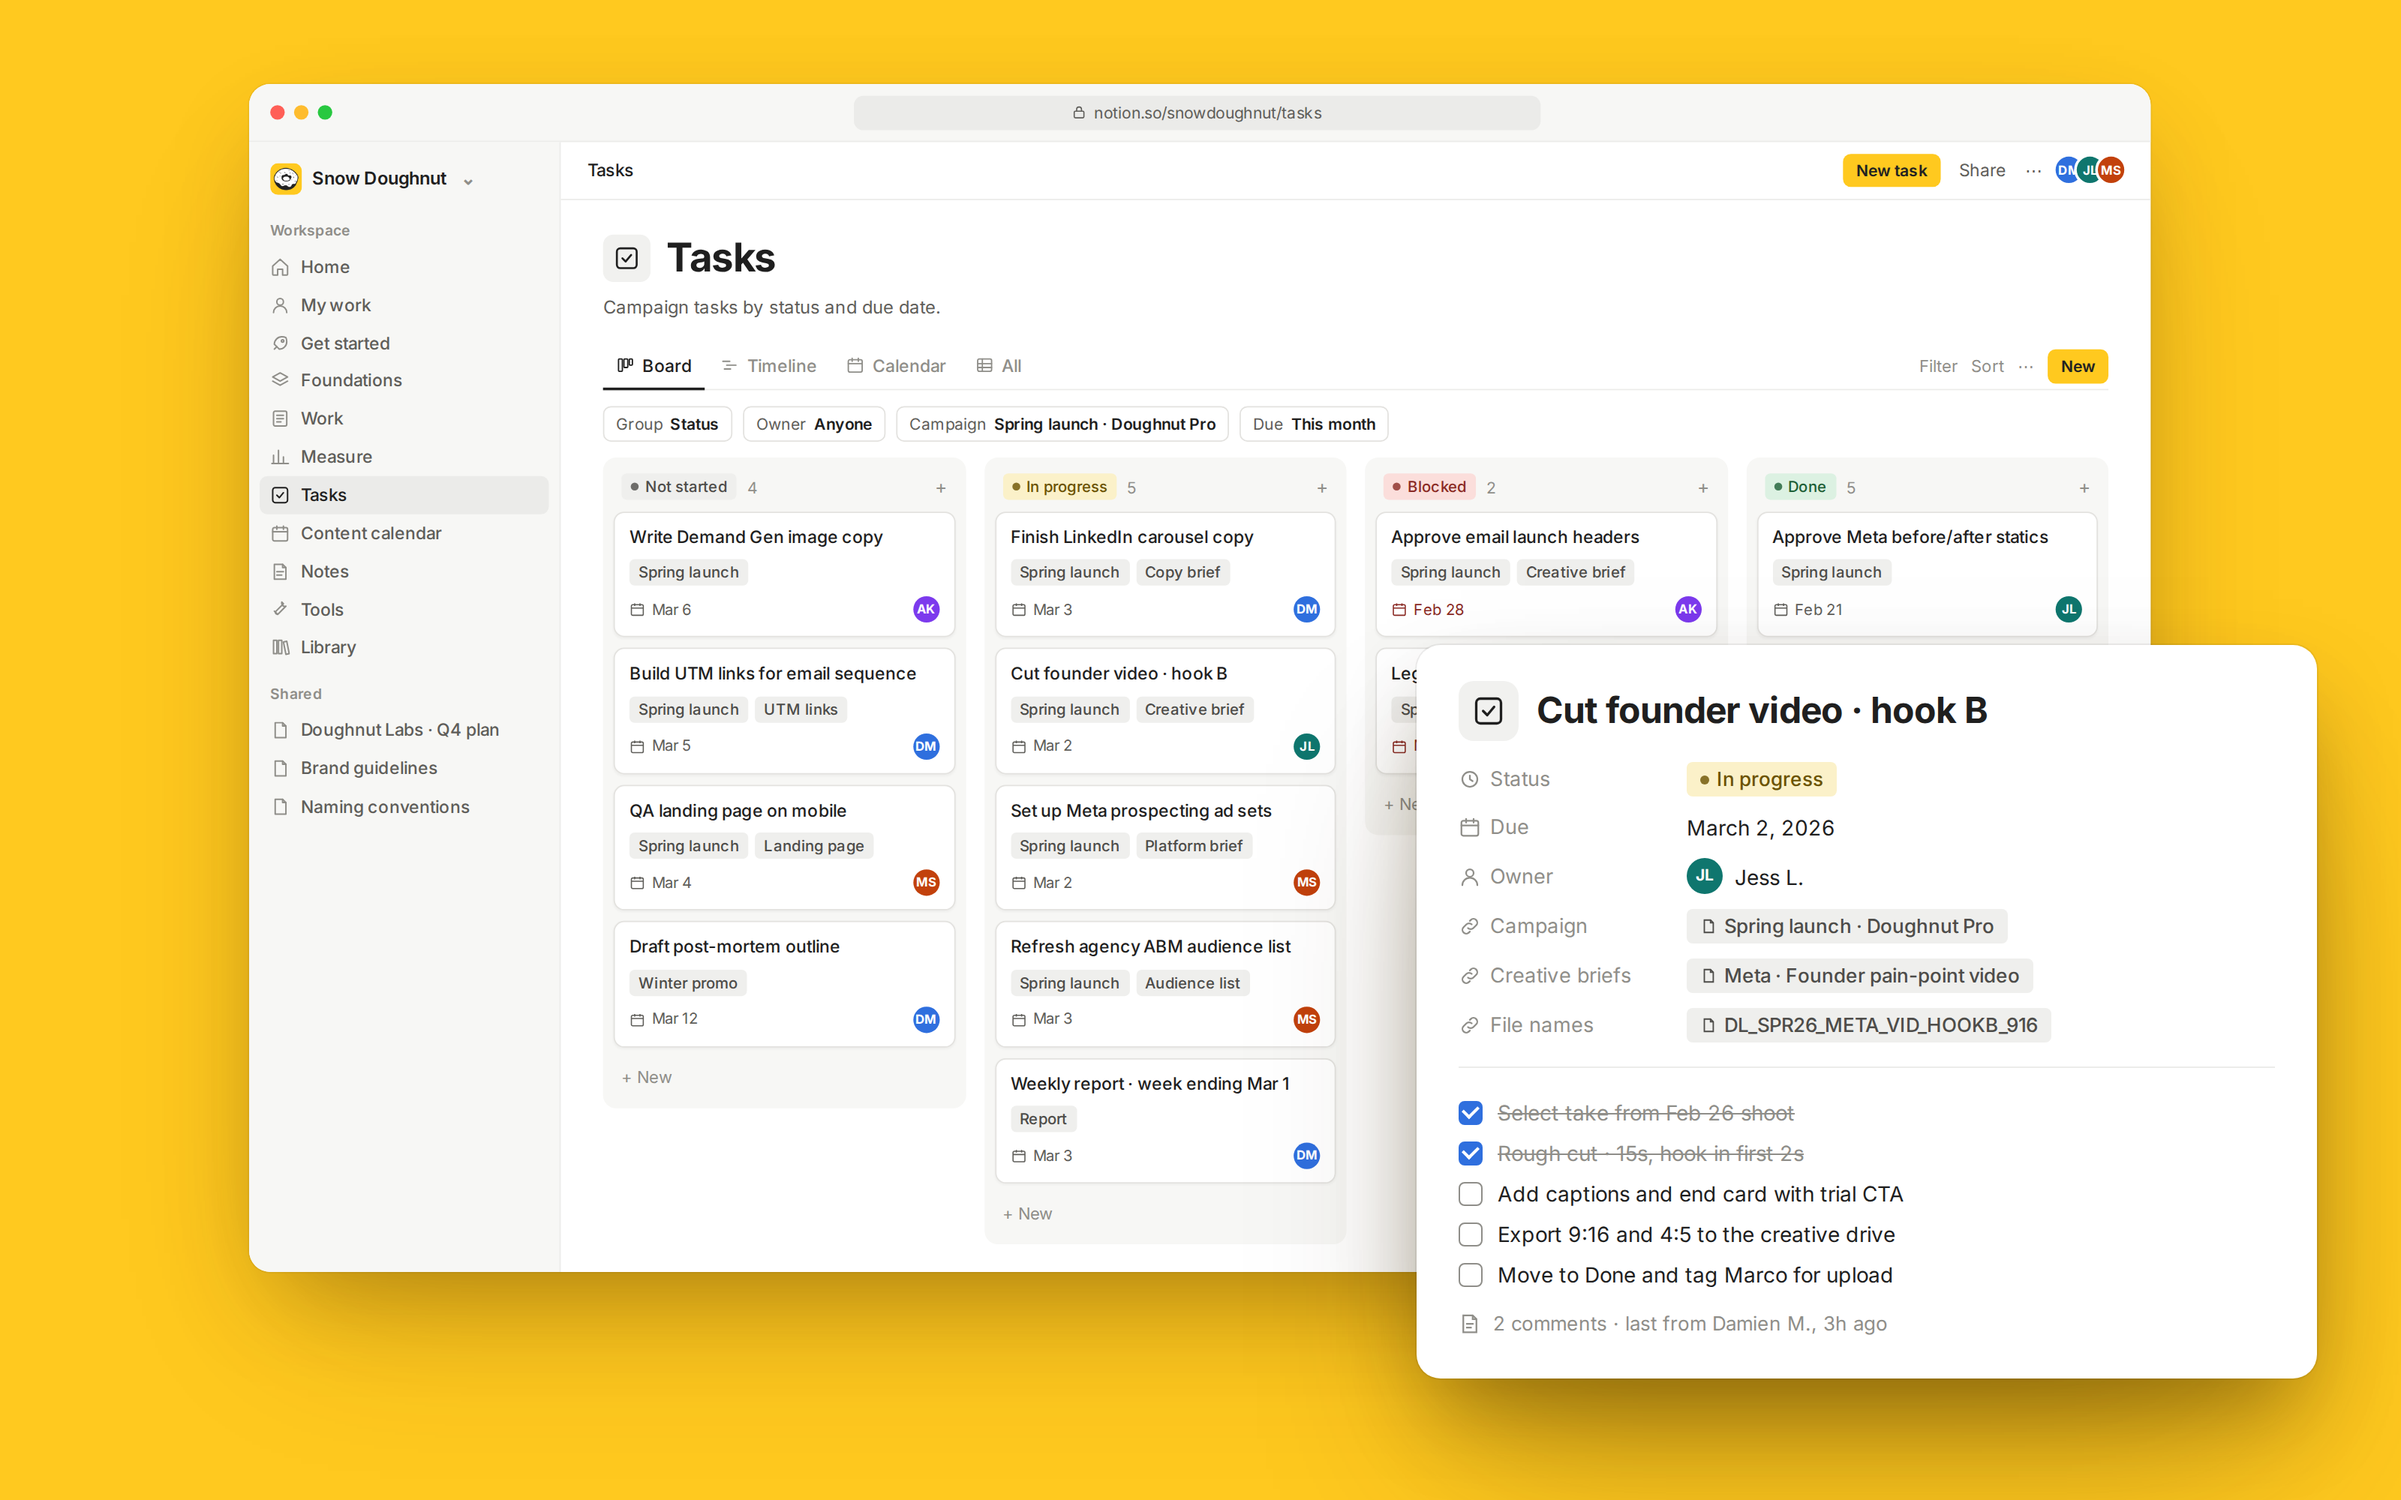
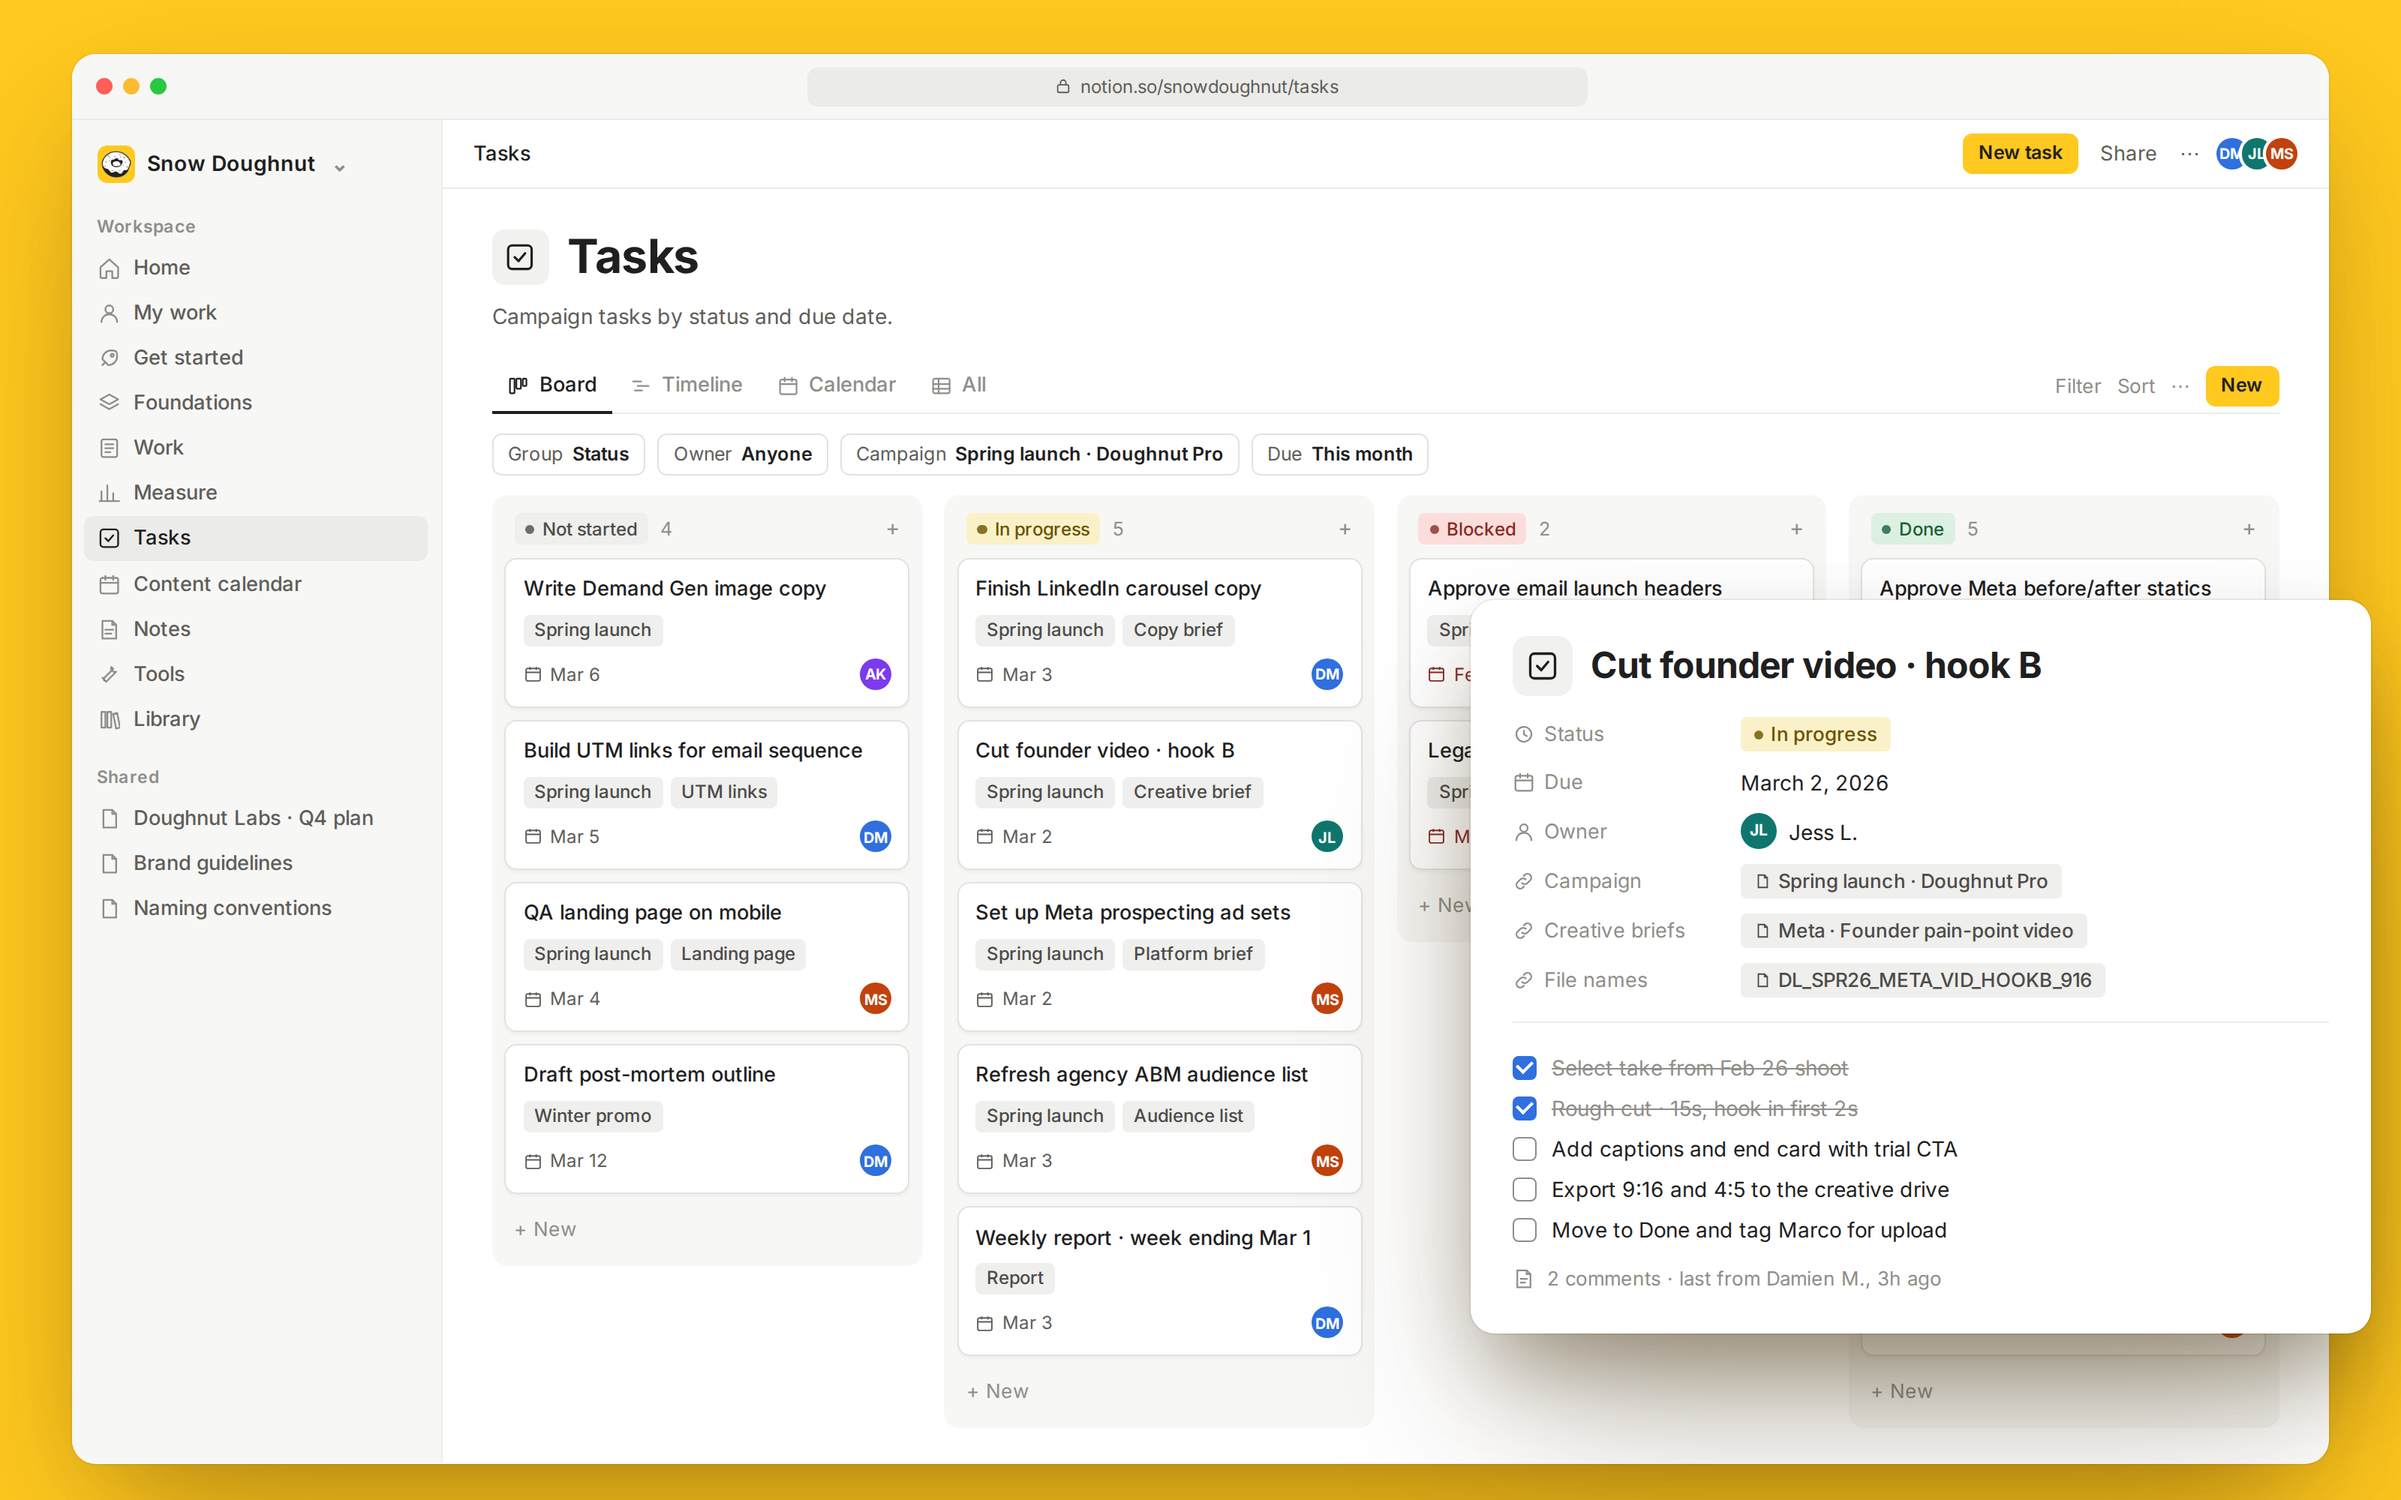
Product shots: window fills the frame, popouts layered above calendar bars
Claude-Session: https://claude.ai/code/session_019a8Z4scePJMRJtvdxZ3ixA

diff --git a/scripts/product-shots/build.js b/scripts/product-shots/build.js
@@ -32,7 +32,7 @@ out('01-campaign-brief.html', doc({
     .kv b{display:block;font-weight:600;margin:8px 0 2px;font-size:12px;color:var(--ink-2)}
     .kv p{margin:0}
     .stack{display:flex;flex-direction:column;gap:12px}
-    .pop{left:56px;top:330px;width:640px}
+    .pop{left:20px;top:330px;width:640px}
   `,
   body: `
     <div class="title"><span class="ico">${I.rocket}</span><h2>Spring launch · Doughnut Pro</h2></div>
@@ -140,7 +140,7 @@ out('02-task-management.html', doc({
     .filters{display:flex;gap:8px;margin:0 0 12px;align-items:center}
     .chip{border:1px solid var(--line-2);border-radius:6px;padding:4px 9px;font-size:12px;color:var(--ink-2);display:inline-flex;gap:6px;align-items:center}
     .chip b{font-weight:600;color:var(--ink)}
-    .pop{right:56px;top:430px;width:600px}
+    .pop{right:20px;top:400px;width:600px}
   `,
   body: `
     <div class="title"><span class="ico">${I.check}</span><h2>Tasks</h2></div>
@@ -264,7 +264,7 @@ out('03-calendar.html', doc({
     .ev.sel{outline:2px solid #2f6fde;outline-offset:-1px}
     .flight{position:absolute;left:8px;right:8px;height:18px;border-radius:5px;background:#1f1f1f;color:#fff;font-size:11px;font-weight:600;display:flex;align-items:center;padding:0 8px;gap:6px;z-index:2}
     .flight i{width:6px;height:6px;border-radius:50%;background:var(--brand);display:inline-block}
-    .pop{left:56px;top:420px;width:600px}
+    .pop{left:20px;top:400px;width:600px}
   `,
   body: `
     <div class="title"><span class="ico">${I.cal}</span><h2>Content calendar</h2></div>
@@ -310,7 +310,7 @@ out('04-kpi-reporting.html', doc({
   extraCss: `
     .page{padding:22px 34px 0}
     .stack{display:flex;flex-direction:column;gap:14px}
-    .pop{left:56px;top:330px;width:720px}
+    .pop{left:20px;top:330px;width:720px}
     .pop .sum{font-size:14px;color:var(--ink);margin:0 0 6px}
   `,
   body: `

diff --git a/scripts/product-shots/shell.css b/scripts/product-shots/shell.css
@@ -21,10 +21,10 @@ body{font-family:'Inter',-apple-system,'Segoe UI',Helvetica,Arial,sans-serif;col
 
 /* ---------- product-shot stage ---------- */
 .stage{width:1600px;height:1000px;position:relative;overflow:hidden;background:#FFC91F}
-.window{position:absolute;left:166px;top:56px;width:1440px;height:900px;background:var(--paper);border-radius:16px;overflow:hidden;
-  transform:scale(.88);transform-origin:top left;
+.window{position:absolute;left:48px;top:36px;width:1504px;height:940px;background:var(--paper);border-radius:16px;overflow:hidden;
+  
   box-shadow:0 0 0 1px rgba(0,0,0,.05), 0 30px 70px -20px rgba(80,50,0,.35), 0 60px 120px -40px rgba(80,50,0,.25)}
-.pop{position:absolute;background:#fff;border-radius:16px;padding:24px 28px 26px;font-size:14px;line-height:1.5;color:var(--ink);
+.pop{position:absolute;z-index:10;background:#fff;border-radius:16px;padding:24px 28px 26px;font-size:14px;line-height:1.5;color:var(--ink);
   box-shadow:0 0 0 1px rgba(0,0,0,.06), 0 30px 60px -12px rgba(60,40,0,.4), 0 70px 120px -30px rgba(60,40,0,.35)}
 .pop .ptitle{display:flex;align-items:center;gap:12px;margin:0 0 14px}
 .pop .ptitle .ico{width:40px;height:40px;border-radius:10px;background:var(--paper-3);display:grid;place-items:center}
@@ -58,7 +58,7 @@ body{font-family:'Inter',-apple-system,'Segoe UI',Helvetica,Arial,sans-serif;col
 .url svg{width:11px;height:11px}
 
 /* ---------- app frame ---------- */
-.app{display:flex;height:856px}
+.app{display:flex;height:856px;zoom:1.045;transform-origin:top left}
 .side{width:236px;background:#f7f7f5;border-right:1px solid var(--line);padding:10px 8px;flex:none}
 .ws{display:flex;align-items:center;gap:8px;padding:6px 8px;border-radius:6px;font-weight:600;font-size:13.5px}
 .ws .mark{width:24px;height:24px;border-radius:6px;display:block;object-fit:cover}
